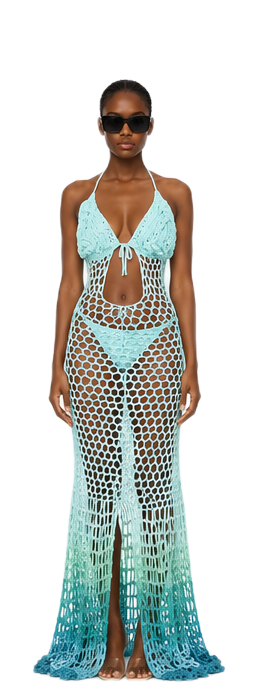
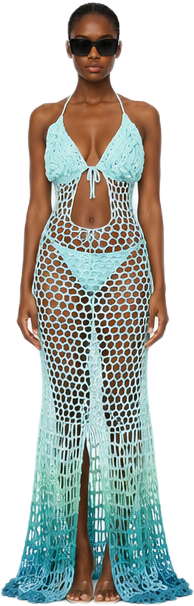
fix: update Reina model height handling and rename other models for consistency

diff --git a/src/components/Hero.jsx b/src/components/Hero.jsx
@@ -37,12 +37,6 @@
      so this stays a rotateY tilt + opacity fade (your call,
      confirmed earlier: simple tilt illusion, no back view).
 
-  5. SELECTED IMAGE HEIGHT: every model — including Reina — grows to
-     IMAGE_HEIGHT_SELECTED when selected. (There used to be a special
-     case that kept Reina at the smaller unselected height even when
-     picked, which is why her enlarged photo looked mismatched next
-     to the others — removed.)
-
   PLACEHOLDER PRODUCT DATA
   ------------------------------------------------------------
   Only "Reina" had a real name + price before. The rest (Model 2,
@@ -83,11 +77,11 @@ const PODIUM_SPIN_START =
 /* Order matches the original slot order left → right. Swap in real
    product name/price per model — see note above. */
 const MODELS = [
-  { id: "model2", name: "Model 2", price: 70000, image: model2 },
-  { id: "model6", name: "Model 6", price: 70000, image: model6 },
+  { id: "model2", name: "Coral", price: 70000, image: model2 },
+  { id: "model6", name: "Amber", price: 70000, image: model6 },
   { id: "reina", name: "Reina", price: 70000, image: heroCenter },
-  { id: "model5", name: "Model 5", price: 70000, image: model5 },
-  { id: "model3", name: "Model 3", price: 70000, image: model3 },
+  { id: "model5", name: "Sienna", price: 70000, image: model5 },
+  { id: "model3", name: "Marina", price: 70000, image: model3 },
 ];
 
 const DEFAULT_SELECTED_INDEX = 2; // "Reina" — matches the original static layout
